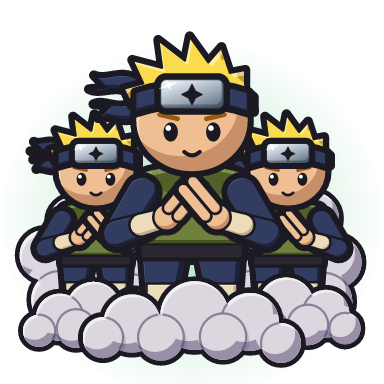
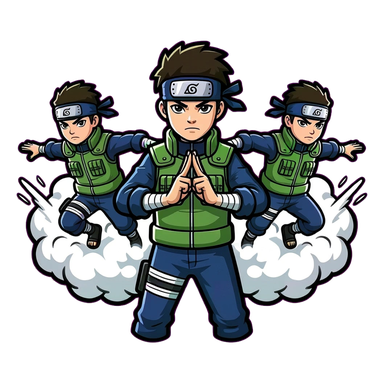
Arsenal: Shadow Clones is the owner's pick too (candidate A), uploaded and Approved
assets/arsenal/picks/reinforce.png (build/ai33/clones/a.png through ai33_img.py take-picks, whose PICKS now
name each pick's cut-out); its render and tile made from it like the other seven, in the hand-made one's
place. ArsenalArt.luau: the new render and tile ids (both Approved). All eight items are the owner's AI
picks now; the hand-made SVG stays for comparing and for an item without a pick.

diff --git a/tools/assets/ai33_img.py b/tools/assets/ai33_img.py
@@ -84,10 +84,12 @@ TITLES = {"mega": "Grand Explosion Seal", "scatter": "Scatter Seal", "reinforce"
           "artillery": "Kunai Battery", "airfield": "Hawk Strike", "railgun": "Chakra Cannon",
           "stars2x": "2x Stars", "reload2x": "Quick Seals"}
 
-#: the owner's picks among the candidates (build/ai_pick_arsenal.png; "a"/"b": the AI candidates), wired as the
-#: shop renders by make_arsenal_renders.py through assets/arsenal/picks/<key>.png
-PICKS = {"mega": "a", "scatter": "b", "artillery": "b", "airfield": "b", "railgun": "b", "stars2x": "b",
-         "reload2x": "a"}
+#: the owner's picks among the candidates (build/ai_pick_arsenal.png, and build/ai_pick_shadowclones.png for
+#: Shadow Clones): each one's cut-out under build/ai33, wired as the shop renders by make_arsenal_renders.py
+#: through assets/arsenal/picks/<key>.png
+PICKS = {"mega": "arsenal/mega_a.png", "scatter": "arsenal/scatter_b.png", "artillery": "arsenal/artillery_b.png",
+         "airfield": "arsenal/airfield_b.png", "railgun": "arsenal/railgun_b.png", "stars2x": "arsenal/stars2x_b.png",
+         "reload2x": "arsenal/reload2x_a.png", "reinforce": "clones/a.png"}
 #: a pick's size in assets/arsenal/picks (twice the render's 384)
 PICK_PX = 768
 
@@ -441,8 +443,8 @@ def take_picks():
     dst = os.path.join(ROOT, "assets", "arsenal", "picks")
     os.makedirs(dst, exist_ok=True)
     out = []
-    for key, c in PICKS.items():
-        im = Image.open(os.path.join(OUT, f"{key}_{c}.png")).convert("RGBA")
+    for key, src in PICKS.items():
+        im = Image.open(os.path.join(ROOT, "build", "ai33", src)).convert("RGBA")
         if max(im.size) > PICK_PX:
             k = PICK_PX / max(im.size)
             im = im.resize((round(im.size[0] * k), round(im.size[1] * k)), Image.LANCZOS)
@@ -562,9 +564,9 @@ def clones_sheet():
     d.text((pad, y), "YOUR PICKS FOR THE OTHER ITEMS", font=_font(13), fill=(150, 156, 180, 255))
     y += 26
     cell_w = strip_px + 52
-    for i, (key, c) in enumerate(PICKS.items()):
+    for i, (key, src) in enumerate((k, v) for k, v in PICKS.items() if k != "reinforce"):
         x = pad + i * (cell_w + 8)
-        p = os.path.join(OUT, f"{key}_{c}.png")
+        p = os.path.join(ROOT, "build", "ai33", src)
         if os.path.exists(p):
             cell = Image.new("RGBA", (cell_w, strip_px), (0, 0, 0, 0))
             full, (cx, cy) = _placed(Image.open(p).convert("RGBA"), strip_px)

diff --git a/tools/assets/make_arsenal_renders.py b/tools/assets/make_arsenal_renders.py
@@ -19,11 +19,12 @@ the game shows every item at the same scale in the same box:
   assets/arsenal/tiles/<key>.png    TILE_PX square, the tile level of detail (arsenal_core.set_lod: a
                                     heavier outline, fewer and bigger parts) for the list's small tiles
 
-The owner's picks (2026-11-23, build/ai_pick_arsenal.png): where he chose an AI candidate over the hand-made
-render, the candidate is kept as assets/arsenal/picks/<key>.png (tools/assets/ai33_img.py take-picks) and both
-the render and the tile are made from it in the hand-made one's place: scaled so what is drawn solid spans what
-the hand-made render spans at that size (the cards' layouts were set to it), centred, its faint glow kept inside
-the square. The hand-made SVG is still drawn for the others (and for comparing: render_svg).
+The owner's picks (2026-11-23, build/ai_pick_arsenal.png; Shadow Clones from build/ai_pick_shadowclones.png):
+where he chose an AI candidate over the hand-made render (all eight items now), the candidate is kept as
+assets/arsenal/picks/<key>.png (tools/assets/ai33_img.py take-picks) and both the render and the tile are made
+from it in the hand-made one's place: scaled so what is drawn solid spans what the hand-made render spans at
+that size (the cards' layouts were set to it), centred, its faint glow kept inside the square. The hand-made
+SVG stays (render_svg): it is drawn for an item without a pick, and for comparing.
 
 Contact sheet: build/arsenal_renders_sheet.png (tools/assets/arsenal_review.py renders: each big, as the
 sticker over its scene's map, in the starter offer, and as the list's tile at five scales). Upload with
